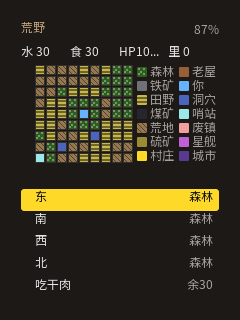
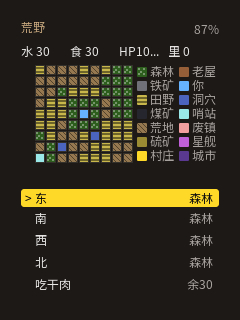
fix: 美化真机反馈——反色块压行/文字贴顶修正+添柴秒数
- 反色块高 22→18:行容器 22 高,行距 19(建造)/20(战斗/整备)/21(贸易)
  的页面金底会压到下一行 1-3px(原透明底不可见,反色后显形)
- 反色时文字标签下移 2px:实测墨字在 22 容器里上缝 2/下缝 9 贴顶,
  18 高块内现上缝 4/下缝 3 垂直居中
- set_row 反色行箭头金→墨(金底上金箭头不可见,与 set_act 对齐)
- 主页点火/添柴冷却剩余秒数就地显示(点火中·9s,原只有暗条无数字)
- 断言:块高 18/墨字居中/零压行 + 全量 21 项回归全过;主机测试全绿;
  idf 编译 863,440B(+192B);mockup v7 CSS 同步;18 张截图重摄

Changed region(s): [[0.0875, 0.5938, 0.9333, 0.6562]]

diff --git a/tools/mockup.html b/tools/mockup.html
@@ -55,15 +55,16 @@
   .cell { position:absolute; height:15px; white-space:nowrap; overflow:hidden; }
   .cell .k { color:#A8A29E; }
 
-  /* T1 动作行:焦点=整行反色金底墨字;冷却焦点=1px 金描边金字 */
+  /* T1 动作行:焦点=整行反色金底墨字(块高 18 防压行距 19/20/21 的下一行,
+     文字 top 3px 垂直居中);冷却焦点=1px 金描边金字 */
   .act  { position:absolute; width:198px; height:22px;
           border-radius:3px; overflow:hidden; }
   .act .fill { position:absolute; left:1px; top:1px; bottom:1px;
                background:#3A3A44; border-radius:2px; }
   .act .txt  { position:absolute; left:12px; top:1px; height:20px;
                line-height:20px; width:172px; }
-  .act.focus { background:#FFD928; }
-  .act.focus .txt { color:#0D0D0D; }
+  .act.focus { background:#FFD928; height:18px; }
+  .act.focus .txt { color:#0D0D0D; top:3px; }
   .act.focus .txt::before { content:">"; color:#0D0D0D; }
   .act.cd { border:1px solid #FFD928; }
   .act.cd .txt { color:#FFD928; }
@@ -71,7 +72,7 @@
   .act .txt::before { content:""; display:inline-block; width:10px; }
   .act.nocur .txt::before { content:none; }
 
-  /* T1 列表行:焦点反色;锁定永不反色 */
+  /* T1 列表行:焦点=整行反色金底墨字(块高 18+文字下移,箭头墨色);锁定永不反色 */
   .row  { position:absolute; width:198px; height:22px;
           border-radius:3px; overflow:hidden; }
   .row .mark { position:absolute; left:4px; top:1px; width:10px; height:20px;
@@ -83,9 +84,9 @@
   .row .v { position:absolute; left:72px; top:1px; width:120px; height:20px;
             font-size:12px; line-height:20px; text-align:right; color:#A8A29E;
             white-space:nowrap; overflow:hidden; }
-  .row.focus { background:#FFD928; }
-  .row.focus .mark { visibility:visible; color:#0D0D0D; }
-  .row.focus .t, .row.focus .v { color:#0D0D0D; }
+  .row.focus { background:#FFD928; height:18px; }
+  .row.focus .mark { visibility:visible; color:#0D0D0D; top:3px; }
+  .row.focus .t, .row.focus .v { color:#0D0D0D; top:3px; }
 
   /* 页签 5×38×20 @y24(M5):光标=金底墨字块;激活=金下划线;锁定=灰 */
   .tab { position:absolute; width:38px; height:20px; text-align:center;

diff --git a/main/darkroom_app.c b/main/darkroom_app.c
@@ -933,7 +933,10 @@ static void render_home_log(int n_acts, int act_top) {
 }
 
 // 动作行:文字 + 焦点 + 冷却填充百分比(0=就绪无底色)。
-// 焦点态(T1):整行反色金底墨字;冷却中退为 1px 金描边(墨字压暗条不可读)
+// 焦点态(T1):整行反色金底墨字;冷却中退为 1px 金描边(墨字压暗条不可读)。
+// 反色块修正(真机反馈):行容器 22 高,行距 19/20/21 的页面金底会压到下一行
+// 1-3px → 反色时块高收到 18;墨字在 22 高容器里贴顶(上缝 2/下缝 9),
+// 反色时标签下移 2px,使其在 18 高块内垂直居中
 static void set_act(actrow_t *a, const char *text, bool focus, int fill_pct) {
     lv_label_set_text(a->arrow, focus ? ">" : "");
     lv_label_set_text(a->lbl, text);
@@ -948,6 +951,10 @@ static void set_act(actrow_t *a, const char *text, bool focus, int fill_pct) {
                                 lv_color_hex(inv ? COL_INK : COL_GOLD), 0);
     lv_obj_set_style_text_color(a->lbl,
         lv_color_hex(inv ? COL_INK : focus ? COL_GOLD : COL_TEXT), 0);
+    lv_obj_set_size(a->row, lv_obj_get_width(a->row), inv ? 18 : 22);
+    int ty = inv ? 3 : 1;
+    lv_obj_set_pos(a->arrow, 2, ty);
+    lv_obj_set_pos(a->lbl, 2 + ARROW_W12, ty);
     if (fill_pct > 0) {
         lv_obj_clear_flag(a->fill, LV_OBJ_FLAG_HIDDEN);
         // 铺满所在行内宽(主页动作行 198 / 弹窗选项行 172),
@@ -964,7 +971,9 @@ static void hide_acts(void) {
 }
 
 // 列表行:t 名称(focus 反色墨字/lock 灰) v 值(右对齐)。
-// T1:焦点整行反色金底墨字;锁定行永不反色
+// T1:焦点整行反色金底墨字;锁定行永不反色。
+// 反色块修正(同 set_act,真机反馈):块高收 18 防压下一行,文字下移居中,
+// 箭头金→墨(金底上金箭头不可见)
 static void set_row(int i, int y, const char *t, const char *v,
                     bool focus, bool lock) {
     listrow_t *r = &s_list[i];
@@ -974,12 +983,19 @@ static void set_row(int i, int y, const char *t, const char *v,
     lv_obj_set_style_bg_opa(r->row, inv ? LV_OPA_COVER : LV_OPA_TRANSP, 0);
     if (inv)
         lv_obj_set_style_bg_color(r->row, lv_color_hex(COL_GOLD), 0);
+    lv_obj_set_size(r->row, 198, inv ? 18 : 22);
+    int ty = inv ? 3 : 1;
     lv_label_set_text(r->mark, focus ? ">" : "");
+    lv_obj_set_pos(r->mark, 4, ty);
+    lv_obj_set_style_text_color(r->mark,
+                                lv_color_hex(inv ? COL_INK : COL_GOLD), 0);
     lv_label_set_text(r->t, t);
+    lv_obj_set_pos(r->t, 4 + ARROW_W12, ty);
     lv_obj_set_style_text_color(r->t,
         lv_color_hex(inv ? COL_INK
                          : focus ? COL_GOLD : lock ? COL_LOCK : COL_TEXT), 0);
     lv_label_set_text(r->v, v);
+    lv_obj_set_pos(r->v, 72, ty);
     lv_obj_set_style_text_color(r->v,
         lv_color_hex(inv ? COL_INK : lock ? COL_LOCK : COL_DIM), 0);
 }
@@ -1108,9 +1124,19 @@ static void render_home(uint32_t now_ms) {
     bool act_focus = (s.nav_focus < 0);   // 光标在页签上时动作区整体去焦点
     bool no_wood = s.game.res[DR_RES_WOOD] < DR_FIRE_LIGHT_COST;
     int sp = stoke_pct(now_ms);
-    const char *stoke = (s.game.fire_lv == DR_FIRE_DEAD)
-                            ? (sp > 0 ? "点火中…" : (no_wood ? "点火(缺木)" : "点火(5木)"))
-                            : (sp > 0 ? "添柴中…" : "添柴(1木)");
+    char stbuf[24];
+    const char *stoke;
+    if (sp > 0) {   // 冷却剩余秒数就地可见(UX:原来只有暗条无数字)
+        long rem_s = (long)((s.rules_rt.stoke_ready_ms - now_ms + 999) / 1000);
+        snprintf(stbuf, sizeof(stbuf), "%s%lds",
+                 s.game.fire_lv == DR_FIRE_DEAD ? "点火中·" : "添柴中·",
+                 rem_s);
+        stoke = stbuf;
+    } else {
+        stoke = (s.game.fire_lv == DR_FIRE_DEAD)
+                    ? (no_wood ? "点火(缺木)" : "点火(5木)")
+                    : "添柴(1木)";
+    }
     set_act(&s_acts[idx], stoke, act_focus && s.focus == idx, sp);
     lv_obj_set_pos(s_acts[idx].row, 0, gy);
     gy += 24;
